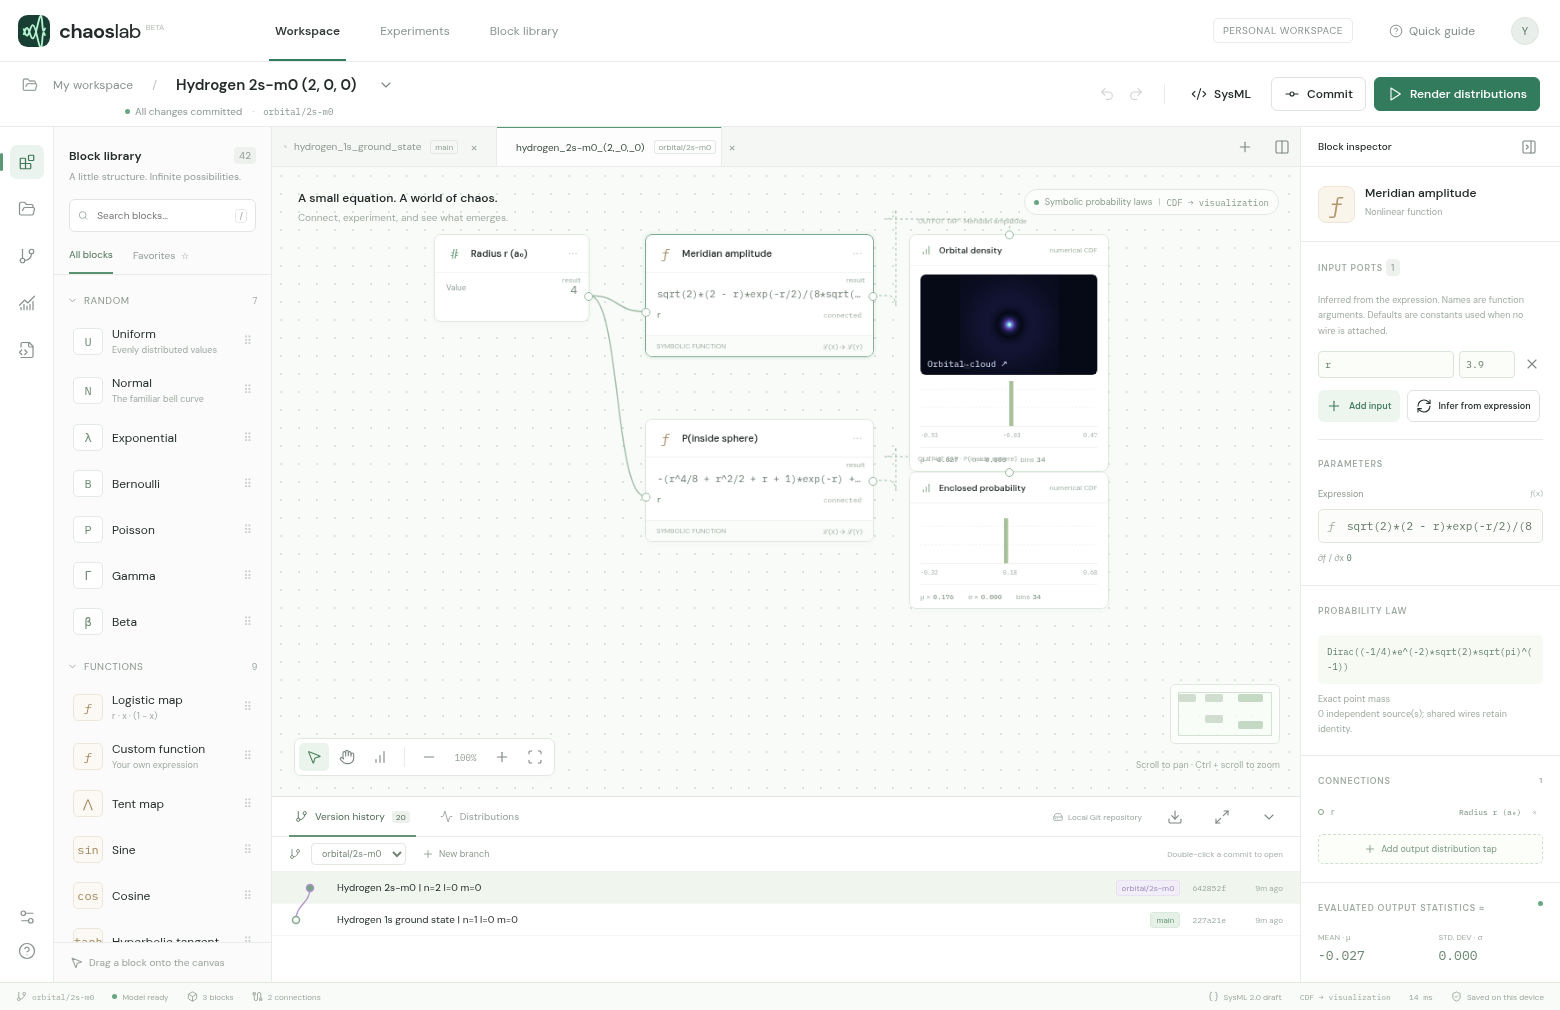
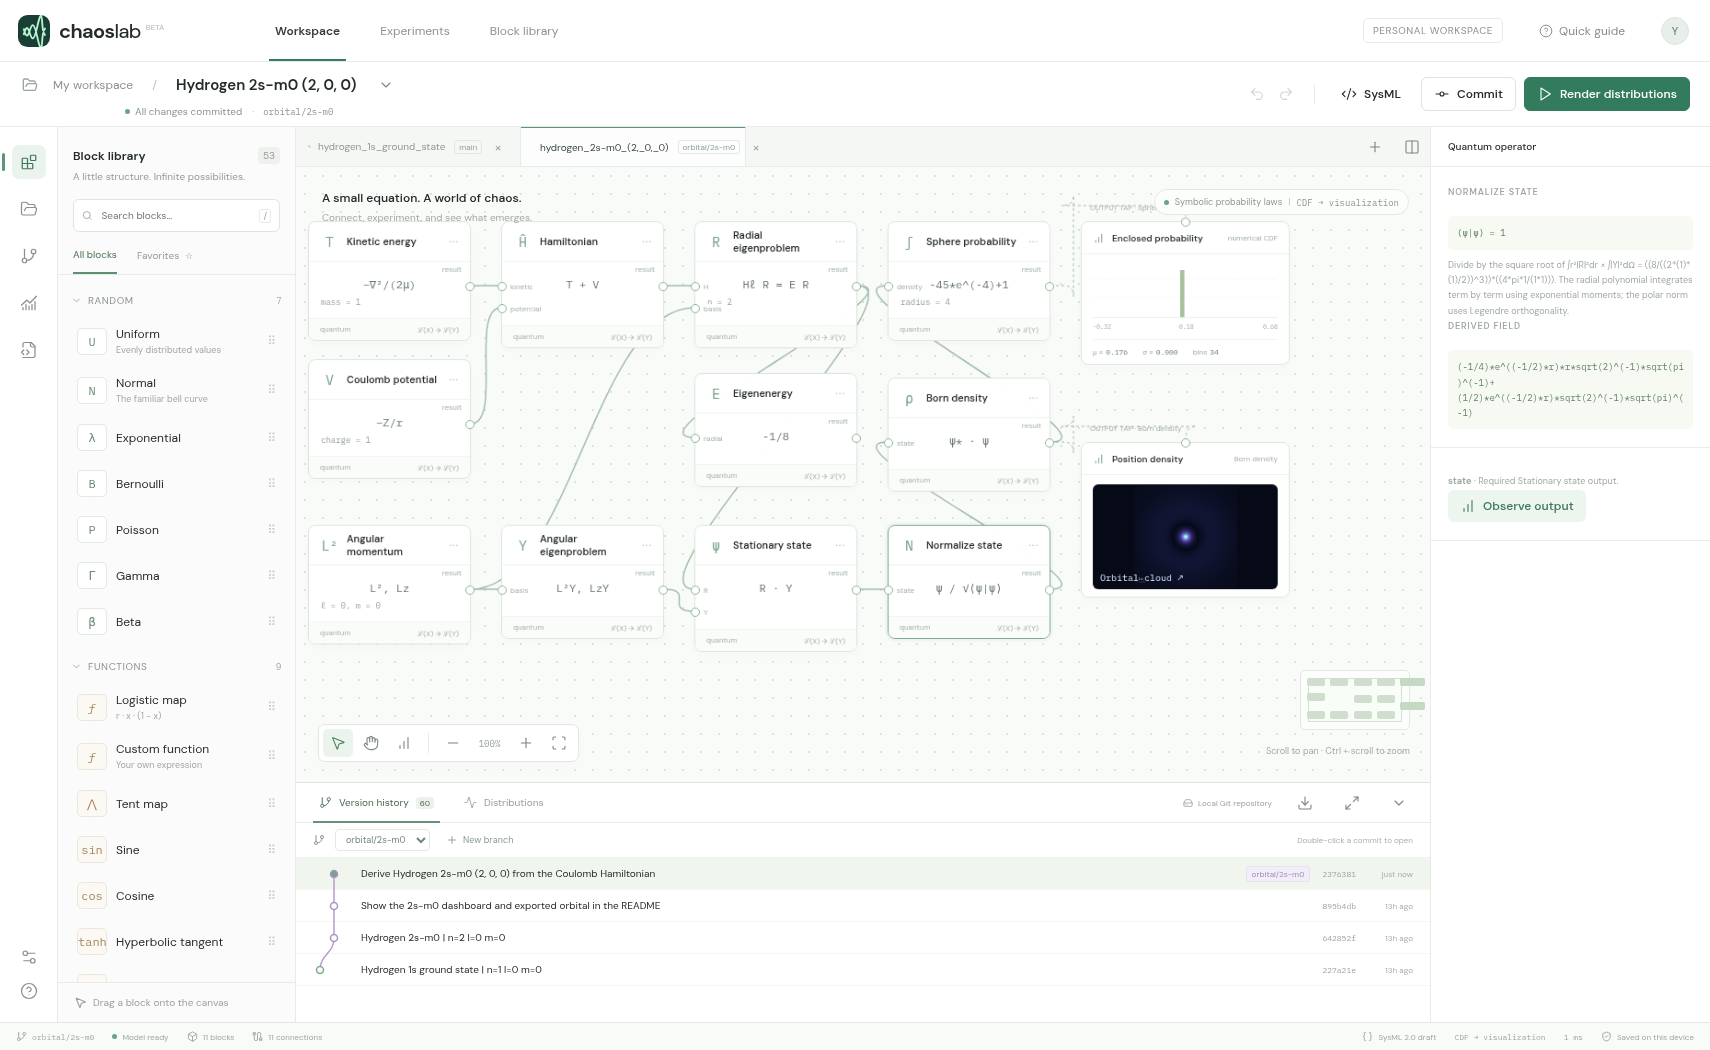
Show the derived state and operator graph for orbital/2s-m0

diff --git a/README.md b/README.md
@@ -4,6 +4,8 @@ Open **Version history** in Chaos Lab to explore the 20 hydrogen designs in this
 
 ## Hydrogen 2s (n = 2, ℓ = 0, m = 0)
 
+The connected Hamiltonian and eigenstate solvers give $E=-1/8$ Hartree for this state.
+
 ![Chaos Lab dashboard with the 2s model, m = 0, open in version history](dashboard.png)
 
 Radial nodes: 1. Polar nodes: 0. Plot half-width: 8 Bohr radii.
@@ -22,7 +24,7 @@ cd hydrogen_wavefunction
 python studio.py
 ```
 
-On Windows you can use `py studio.py`. On Linux you can use `python3 studio.py`. The first launch downloads the pinned Chaos Lab browser build. Double-click a commit to open it in a tab. Open another and use **Split view** to compare them. **Orbital cloud ↗** opens the spatial plots. The launcher reads the Git objects from your clone, including origin branches. Run `git fetch origin` and restart the launcher to load new remote branches.
+On Windows you can use `py studio.py`. On Linux you can use `python3 studio.py`. The first launch downloads the pinned Chaos Lab browser build. Double-click a commit to open it in a tab. Open another and use **Split view** to compare them. **Orbital cloud ↗** opens the spatial plots. The launcher reads the Git objects from your clone, including origin branches. For an existing clone, update the checked-out branch with `git pull --ff-only`, fetch the other branches with `git fetch origin`, and restart the launcher. Double-click the latest commit for the design you want to explore.
 
 To compare states with the same radial law, open `orbital/2p-m0` and `orbital/2p-m1`. At the same radius their enclosed-probability probes agree. The first slice is dark on the equatorial plane, while the second is dark along the polar axis.
 
@@ -32,7 +34,17 @@ To compare states with the same radial law, open `orbital/2p-m0` and `orbital/2p
 
 Branch names encode `(n, ℓ, m)`. For example, `orbital/3d-m1` is `(3,2,1)`. Each snapshot includes the editable graph, its compiled symbolic representation, and its SysML text. Each excited-state branch also contains a reference cross-section.
 
-Coordinates are in Bohr radii. These are normalized fixed-proton, nonrelativistic spatial eigenstates in the complex spherical-harmonic basis. For a fixed m the azimuthal phase is exp(i m φ), so probability density is axially symmetric. The graph evaluates the real meridian amplitude at φ = 0 using radius r and u = cos θ. Its square is probability per unit volume. The sphere probe integrates the radial Born law. The field tap sweeps the same amplitude expression for the x–z slice and its projected detections. Detections are drawn for display from a numerical grid of the final density including the r² volume factor. Brightness and plotting windows are scaled per orbital.
+## How the graph derives this orbital
+
+1. **Kinetic energy** and **Coulomb potential** supply the relative-coordinate operators in atomic units. Their wires feed **Hamiltonian**, which constructs $H=-\nabla^2/(2\mu)-Z/r$. The default is a fixed proton, $Z=\mu=1$.
+2. **Angular momentum** selects the joint eigenvalues of $L^2$ and $L_z$. **Radial eigenproblem** uses that angular eigenvalue in the centrifugal term. Regularity at the origin, decay at infinity, and radial-series termination give the polynomial and energy. **Angular eigenproblem** constructs the polar polynomial by Rodrigues differentiation and includes the phase $e^{im\phi}$.
+3. **Stationary state** multiplies the separated basis functions. **Normalize state** computes their norm with the spherical volume measure. **Born density** takes the squared modulus of the normalized state. **Sphere probability** integrates that density to the probe radius.
+4. Select a block to inspect its equation and derivation. Change **Nuclear charge** from 1 to 2. The energy becomes four times more negative and the orbital contracts by a factor of two. The plot rescales with the orbital, so use its Bohr-radius scale bar to see the change.
+
+The central slice evaluates the final density in the x–z plane. Projected detections sample the final density on a finite radial and angular grid with the spherical volume factor. Coordinates use Bohr radii and energy uses Hartree.
+
+The branch stores the operator graph in `model.json`, its derived fields and scalar laws in `model.symbolic.json`, and the block connections in `model.sysml`. With SymPy installed, run `python tools/verify_state.py` in a checkout of this branch to check the eigenvalue equations, normalization, radial reference solution and sphere integral.
+
 
 | n | ℓ | m | Design branch |
 |---|---|---|---|
